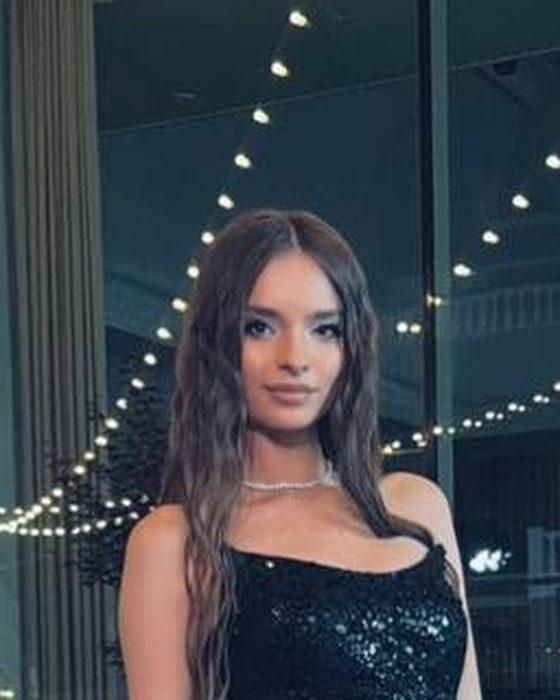
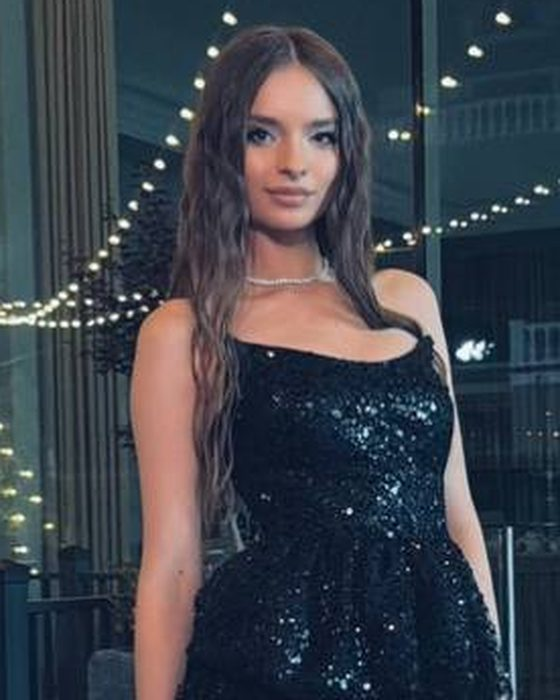
few changes

diff --git a/tudormirca-site-complet/16voci16zile/date.js b/tudormirca-site-complet/16voci16zile/date.js
@@ -424,7 +424,7 @@ const EXPOZITIE = {
   echipa: [
     { nume: "", rol: "", foto: "img/echipa/student-01.jpg?v=2" },
     { nume: "", rol: "", foto: "img/echipa/student-02.jpg?v=2" },
-    { nume: "", rol: "", foto: "img/echipa/student-03.jpg?v=2" },
+    { nume: "", rol: "", foto: "img/echipa/student-03.jpg?v=3" },
     { nume: "", rol: "", foto: "img/echipa/student-04.jpg?v=2" },
     { nume: "", rol: "", foto: "img/echipa/student-05.jpg?v=2" },
     { nume: "", rol: "", foto: "img/echipa/student-06.jpg?v=2" },
@@ -438,7 +438,7 @@ const EXPOZITIE = {
     { nume: "", rol: "", foto: "img/echipa/student-14.jpg?v=2" },
     { nume: "", rol: "", foto: "img/echipa/student-15.jpg?v=2" },
     { nume: "", rol: "", foto: "img/echipa/student-16.jpg?v=2" },
-    { nume: "", rol: "", foto: "img/echipa/student-17.jpg?v=2" },
+    { nume: "", rol: "", foto: "img/echipa/student-17.jpg?v=3" },
     { nume: "", rol: "", foto: "img/echipa/student-18.jpg?v=2" },
     { nume: "", rol: "", foto: "img/echipa/student-19.jpg?v=2" },
     { nume: "", rol: "", foto: "img/echipa/student-20.jpg?v=2" },

diff --git a/tudormirca-site-complet/16voci16zile/index.html b/tudormirca-site-complet/16voci16zile/index.html
@@ -24,7 +24,7 @@
   <link rel="stylesheet" href="https://fonts.googleapis.com/css2?family=Inter:opsz,wght@14..32,400..900&display=swap">
   <link rel="stylesheet" href="stil.css?v=10">
 
-  <script src="date.js?v=9" defer></script>
+  <script src="date.js?v=11" defer></script>
   <script src="oglinda.js?v=3" defer></script>
   <script src="../vendor/lenis.min.js" defer></script>
   <script src="expozitie.js?v=8" defer></script>

diff --git a/tudormirca-site-complet/16voci16zile/alexithymia/index.html b/tudormirca-site-complet/16voci16zile/alexithymia/index.html
@@ -21,7 +21,7 @@
   <link rel="stylesheet" href="https://fonts.googleapis.com/css2?family=Inter:opsz,wght@14..32,400..900&display=swap">
   <link rel="stylesheet" href="../stil.css?v=8">
 
-  <script src="../date.js?v=9" defer></script>
+  <script src="../date.js?v=11" defer></script>
   <script src="../oglinda.js?v=3" defer></script>
   <script src="../voce.js?v=5" defer></script>
 </head>

diff --git a/tudormirca-site-complet/16voci16zile/algophobia/index.html b/tudormirca-site-complet/16voci16zile/algophobia/index.html
@@ -21,7 +21,7 @@
   <link rel="stylesheet" href="https://fonts.googleapis.com/css2?family=Inter:opsz,wght@14..32,400..900&display=swap">
   <link rel="stylesheet" href="../stil.css?v=8">
 
-  <script src="../date.js?v=9" defer></script>
+  <script src="../date.js?v=11" defer></script>
   <script src="../oglinda.js?v=3" defer></script>
   <script src="../voce.js?v=5" defer></script>
 </head>

diff --git a/tudormirca-site-complet/16voci16zile/atelophobia/index.html b/tudormirca-site-complet/16voci16zile/atelophobia/index.html
@@ -21,7 +21,7 @@
   <link rel="stylesheet" href="https://fonts.googleapis.com/css2?family=Inter:opsz,wght@14..32,400..900&display=swap">
   <link rel="stylesheet" href="../stil.css?v=8">
 
-  <script src="../date.js?v=9" defer></script>
+  <script src="../date.js?v=11" defer></script>
   <script src="../oglinda.js?v=3" defer></script>
   <script src="../voce.js?v=5" defer></script>
 </head>

diff --git a/tudormirca-site-complet/16voci16zile/autophobia/index.html b/tudormirca-site-complet/16voci16zile/autophobia/index.html
@@ -21,7 +21,7 @@
   <link rel="stylesheet" href="https://fonts.googleapis.com/css2?family=Inter:opsz,wght@14..32,400..900&display=swap">
   <link rel="stylesheet" href="../stil.css?v=8">
 
-  <script src="../date.js?v=9" defer></script>
+  <script src="../date.js?v=11" defer></script>
   <script src="../oglinda.js?v=3" defer></script>
   <script src="../voce.js?v=5" defer></script>
 </head>

diff --git a/tudormirca-site-complet/16voci16zile/dipsomania/index.html b/tudormirca-site-complet/16voci16zile/dipsomania/index.html
@@ -21,7 +21,7 @@
   <link rel="stylesheet" href="https://fonts.googleapis.com/css2?family=Inter:opsz,wght@14..32,400..900&display=swap">
   <link rel="stylesheet" href="../stil.css?v=8">
 
-  <script src="../date.js?v=9" defer></script>
+  <script src="../date.js?v=11" defer></script>
   <script src="../oglinda.js?v=3" defer></script>
   <script src="../voce.js?v=5" defer></script>
 </head>

diff --git a/tudormirca-site-complet/16voci16zile/eisoptrophobia/index.html b/tudormirca-site-complet/16voci16zile/eisoptrophobia/index.html
@@ -21,7 +21,7 @@
   <link rel="stylesheet" href="https://fonts.googleapis.com/css2?family=Inter:opsz,wght@14..32,400..900&display=swap">
   <link rel="stylesheet" href="../stil.css?v=8">
 
-  <script src="../date.js?v=9" defer></script>
+  <script src="../date.js?v=11" defer></script>
   <script src="../oglinda.js?v=3" defer></script>
   <script src="../voce.js?v=5" defer></script>
 </head>

diff --git a/tudormirca-site-complet/16voci16zile/erotophobia/index.html b/tudormirca-site-complet/16voci16zile/erotophobia/index.html
@@ -21,7 +21,7 @@
   <link rel="stylesheet" href="https://fonts.googleapis.com/css2?family=Inter:opsz,wght@14..32,400..900&display=swap">
   <link rel="stylesheet" href="../stil.css?v=8">
 
-  <script src="../date.js?v=9" defer></script>
+  <script src="../date.js?v=11" defer></script>
   <script src="../oglinda.js?v=3" defer></script>
   <script src="../voce.js?v=5" defer></script>
 </head>

diff --git a/tudormirca-site-complet/16voci16zile/haphephobia/index.html b/tudormirca-site-complet/16voci16zile/haphephobia/index.html
@@ -21,7 +21,7 @@
   <link rel="stylesheet" href="https://fonts.googleapis.com/css2?family=Inter:opsz,wght@14..32,400..900&display=swap">
   <link rel="stylesheet" href="../stil.css?v=8">
 
-  <script src="../date.js?v=9" defer></script>
+  <script src="../date.js?v=11" defer></script>
   <script src="../oglinda.js?v=3" defer></script>
   <script src="../voce.js?v=5" defer></script>
 </head>

diff --git a/tudormirca-site-complet/16voci16zile/lalophobia/index.html b/tudormirca-site-complet/16voci16zile/lalophobia/index.html
@@ -21,7 +21,7 @@
   <link rel="stylesheet" href="https://fonts.googleapis.com/css2?family=Inter:opsz,wght@14..32,400..900&display=swap">
   <link rel="stylesheet" href="../stil.css?v=8">
 
-  <script src="../date.js?v=9" defer></script>
+  <script src="../date.js?v=11" defer></script>
   <script src="../oglinda.js?v=3" defer></script>
   <script src="../voce.js?v=5" defer></script>
 </head>

diff --git a/tudormirca-site-complet/16voci16zile/lypemania/index.html b/tudormirca-site-complet/16voci16zile/lypemania/index.html
@@ -21,7 +21,7 @@
   <link rel="stylesheet" href="https://fonts.googleapis.com/css2?family=Inter:opsz,wght@14..32,400..900&display=swap">
   <link rel="stylesheet" href="../stil.css?v=8">
 
-  <script src="../date.js?v=9" defer></script>
+  <script src="../date.js?v=11" defer></script>
   <script src="../oglinda.js?v=3" defer></script>
   <script src="../voce.js?v=5" defer></script>
 </head>
